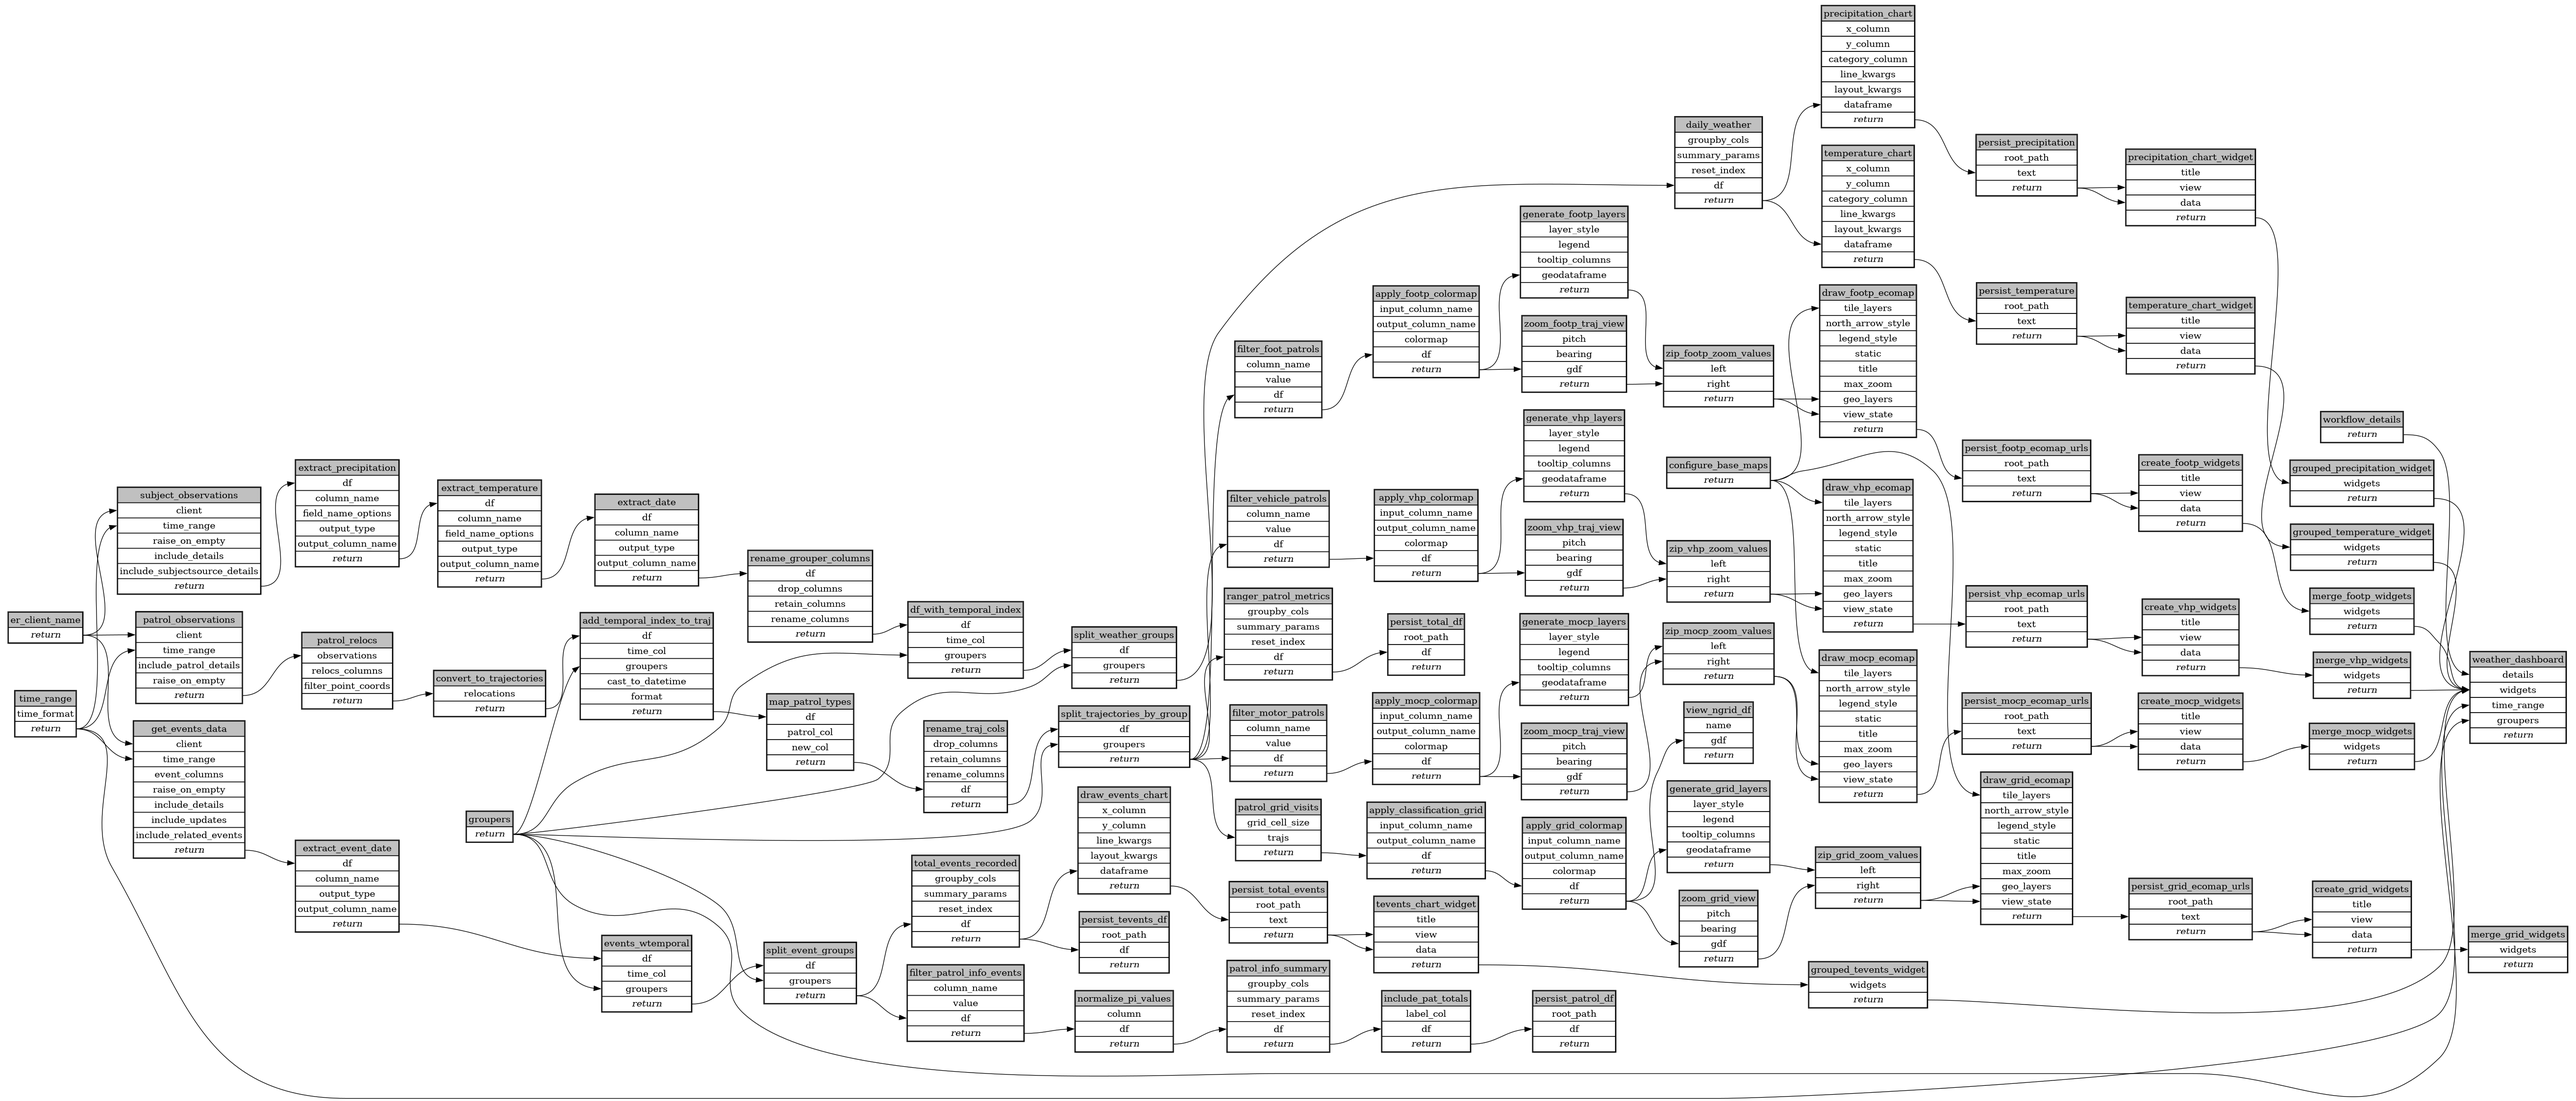
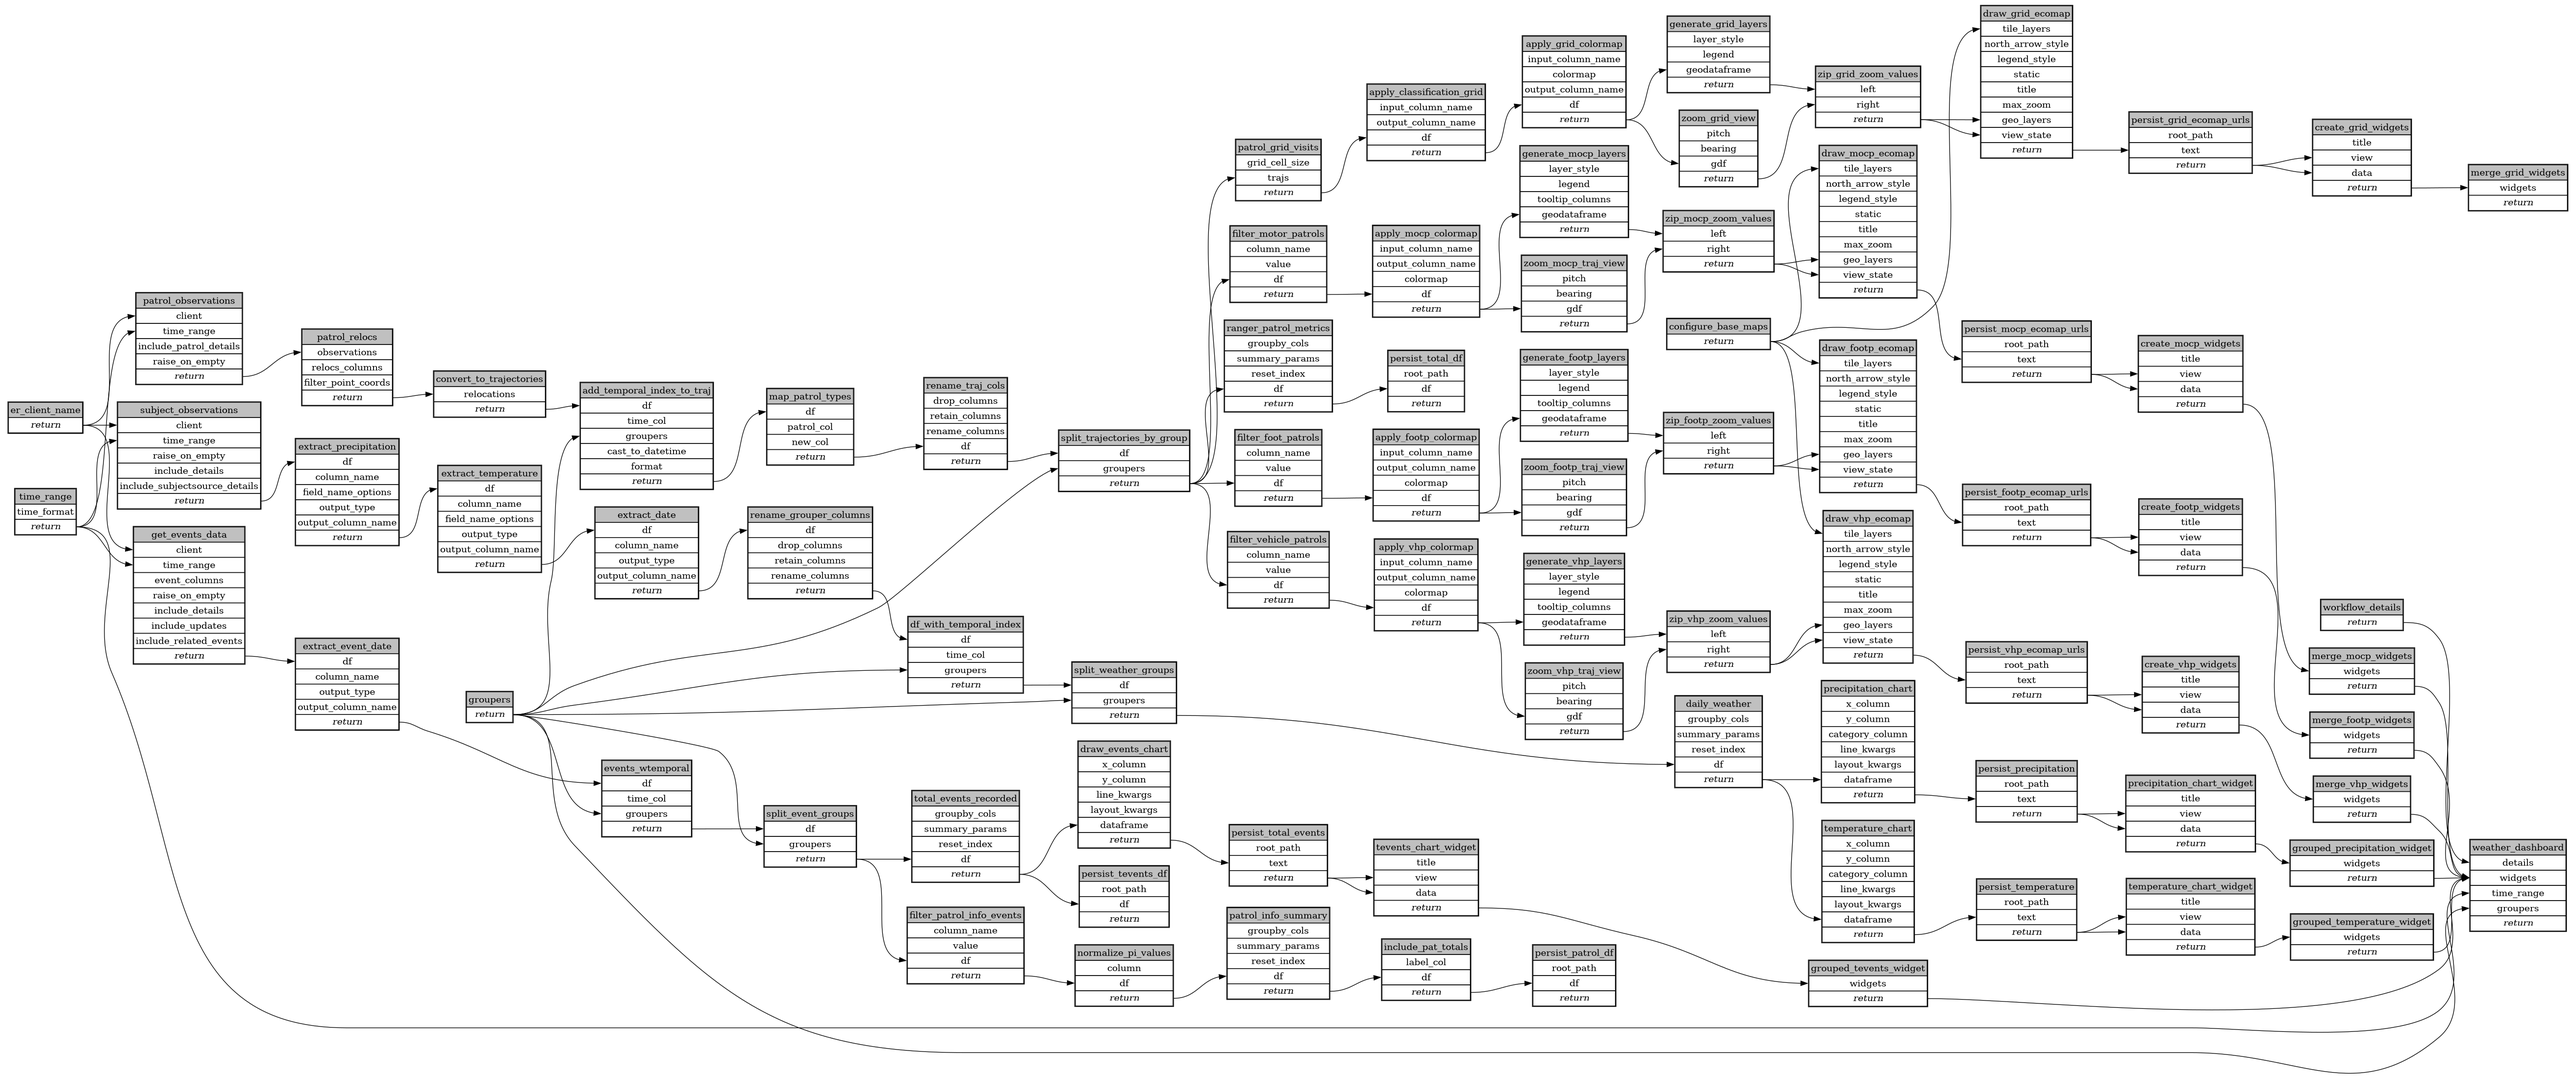
modify spec yaml

diff --git a/workflows/customized_report/ecoscope-workflows-customized-report-workflow/ecoscope_workflows_customized_report_workflow/dags/run_async.py b/workflows/customized_report/ecoscope-workflows-customized-report-workflow/ecoscope_workflows_customized_report_workflow/dags/run_async.py
@@ -53,7 +53,6 @@ from ecoscope_workflows_ext_mnc.tasks import (
     create_patrol_coverage_grid,
     create_view_state_from_gdf,
     filter_by_value,
-    view_df,
     zip_grouped_by_key,
 )
 
@@ -139,7 +138,6 @@ def main(params: Params):
         "patrol_grid_visits": ["split_trajectories_by_group"],
         "apply_classification_grid": ["patrol_grid_visits"],
         "apply_grid_colormap": ["apply_classification_grid"],
-        "view_ngrid_df": ["apply_grid_colormap"],
         "generate_grid_layers": ["apply_grid_colormap"],
         "zoom_grid_view": ["apply_grid_colormap"],
         "zip_grid_zoom_values": ["generate_grid_layers", "zoom_grid_view"],
@@ -1375,28 +1373,14 @@ def main(params: Params):
             .set_executor("lithops"),
             partial={
                 "input_column_name": "density_bins",
+                "colormap": "RdYlGn",
                 "output_column_name": "density_colors",
-                "colormap": "Wistia",
             }
             | (params_dict.get("apply_grid_colormap") or {}),
             method="mapvalues",
             kwargs={
                 "argnames": ["df"],
                 "argvalues": DependsOn("apply_classification_grid"),
-            },
-        ),
-        "view_ngrid_df": Node(
-            async_task=view_df.validate()
-            .handle_errors(task_instance_id="view_ngrid_df")
-            .set_executor("lithops"),
-            partial={
-                "name": "Patrol colormap grid",
-            }
-            | (params_dict.get("view_ngrid_df") or {}),
-            method="mapvalues",
-            kwargs={
-                "argnames": ["gdf"],
-                "argvalues": DependsOn("apply_grid_colormap"),
             },
         ),
         "generate_grid_layers": Node(
@@ -1416,7 +1400,6 @@ def main(params: Params):
                     "label_column": "density_bins",
                     "color_column": "density_colors",
                 },
-                "tooltip_columns": ["density_bins", "density_colors"],
             }
             | (params_dict.get("generate_grid_layers") or {}),
             method="mapvalues",

diff --git a/workflows/customized_report/ecoscope-workflows-customized-report-workflow/ecoscope_workflows_customized_report_workflow/dags/run_async_mock_io.py b/workflows/customized_report/ecoscope-workflows-customized-report-workflow/ecoscope_workflows_customized_report_workflow/dags/run_async_mock_io.py
@@ -95,7 +95,6 @@ from ecoscope_workflows_ext_mnc.tasks import (
     create_patrol_coverage_grid,
     create_view_state_from_gdf,
     filter_by_value,
-    view_df,
     zip_grouped_by_key,
 )
 
@@ -183,7 +182,6 @@ def main(params: Params):
         "patrol_grid_visits": ["split_trajectories_by_group"],
         "apply_classification_grid": ["patrol_grid_visits"],
         "apply_grid_colormap": ["apply_classification_grid"],
-        "view_ngrid_df": ["apply_grid_colormap"],
         "generate_grid_layers": ["apply_grid_colormap"],
         "zoom_grid_view": ["apply_grid_colormap"],
         "zip_grid_zoom_values": ["generate_grid_layers", "zoom_grid_view"],
@@ -1419,28 +1417,14 @@ def main(params: Params):
             .set_executor("lithops"),
             partial={
                 "input_column_name": "density_bins",
+                "colormap": "RdYlGn",
                 "output_column_name": "density_colors",
-                "colormap": "Wistia",
             }
             | (params_dict.get("apply_grid_colormap") or {}),
             method="mapvalues",
             kwargs={
                 "argnames": ["df"],
                 "argvalues": DependsOn("apply_classification_grid"),
-            },
-        ),
-        "view_ngrid_df": Node(
-            async_task=view_df.validate()
-            .handle_errors(task_instance_id="view_ngrid_df")
-            .set_executor("lithops"),
-            partial={
-                "name": "Patrol colormap grid",
-            }
-            | (params_dict.get("view_ngrid_df") or {}),
-            method="mapvalues",
-            kwargs={
-                "argnames": ["gdf"],
-                "argvalues": DependsOn("apply_grid_colormap"),
             },
         ),
         "generate_grid_layers": Node(
@@ -1460,7 +1444,6 @@ def main(params: Params):
                     "label_column": "density_bins",
                     "color_column": "density_colors",
                 },
-                "tooltip_columns": ["density_bins", "density_colors"],
             }
             | (params_dict.get("generate_grid_layers") or {}),
             method="mapvalues",

diff --git a/workflows/customized_report/ecoscope-workflows-customized-report-workflow/ecoscope_workflows_customized_report_workflow/dags/run_sequential.py b/workflows/customized_report/ecoscope-workflows-customized-report-workflow/ecoscope_workflows_customized_report_workflow/dags/run_sequential.py
@@ -52,7 +52,6 @@ from ecoscope_workflows_ext_mnc.tasks import (
     create_patrol_coverage_grid,
     create_view_state_from_gdf,
     filter_by_value,
-    view_df,
     zip_grouped_by_key,
 )
 
@@ -1086,20 +1085,11 @@ def main(params: Params):
         .handle_errors(task_instance_id="apply_grid_colormap")
         .partial(
             input_column_name="density_bins",
+            colormap="RdYlGn",
             output_column_name="density_colors",
-            colormap="Wistia",
             **(params_dict.get("apply_grid_colormap") or {}),
         )
         .mapvalues(argnames=["df"], argvalues=apply_classification_grid)
-    )
-
-    view_ngrid_df = (
-        view_df.validate()
-        .handle_errors(task_instance_id="view_ngrid_df")
-        .partial(
-            name="Patrol colormap grid", **(params_dict.get("view_ngrid_df") or {})
-        )
-        .mapvalues(argnames=["gdf"], argvalues=apply_grid_colormap)
     )
 
     generate_grid_layers = (
@@ -1115,7 +1105,6 @@ def main(params: Params):
         .partial(
             layer_style={"fill_color_column": "density_colors", "opacity": 0.55},
             legend={"label_column": "density_bins", "color_column": "density_colors"},
-            tooltip_columns=["density_bins", "density_colors"],
             **(params_dict.get("generate_grid_layers") or {}),
         )
         .mapvalues(argnames=["geodataframe"], argvalues=apply_grid_colormap)

diff --git a/workflows/customized_report/ecoscope-workflows-customized-report-workflow/ecoscope_workflows_customized_report_workflow/dags/run_sequential_mock_io.py b/workflows/customized_report/ecoscope-workflows-customized-report-workflow/ecoscope_workflows_customized_report_workflow/dags/run_sequential_mock_io.py
@@ -94,7 +94,6 @@ from ecoscope_workflows_ext_mnc.tasks import (
     create_patrol_coverage_grid,
     create_view_state_from_gdf,
     filter_by_value,
-    view_df,
     zip_grouped_by_key,
 )
 
@@ -1130,20 +1129,11 @@ def main(params: Params):
         .handle_errors(task_instance_id="apply_grid_colormap")
         .partial(
             input_column_name="density_bins",
+            colormap="RdYlGn",
             output_column_name="density_colors",
-            colormap="Wistia",
             **(params_dict.get("apply_grid_colormap") or {}),
         )
         .mapvalues(argnames=["df"], argvalues=apply_classification_grid)
-    )
-
-    view_ngrid_df = (
-        view_df.validate()
-        .handle_errors(task_instance_id="view_ngrid_df")
-        .partial(
-            name="Patrol colormap grid", **(params_dict.get("view_ngrid_df") or {})
-        )
-        .mapvalues(argnames=["gdf"], argvalues=apply_grid_colormap)
     )
 
     generate_grid_layers = (
@@ -1159,7 +1149,6 @@ def main(params: Params):
         .partial(
             layer_style={"fill_color_column": "density_colors", "opacity": 0.55},
             legend={"label_column": "density_bins", "color_column": "density_colors"},
-            tooltip_columns=["density_bins", "density_colors"],
             **(params_dict.get("generate_grid_layers") or {}),
         )
         .mapvalues(argnames=["geodataframe"], argvalues=apply_grid_colormap)

diff --git a/workflows/customized_report/ecoscope-workflows-customized-report-workflow/ecoscope_workflows_customized_report_workflow/dags/jupytext.py b/workflows/customized_report/ecoscope-workflows-customized-report-workflow/ecoscope_workflows_customized_report_workflow/dags/jupytext.py
@@ -62,7 +62,6 @@ from ecoscope_workflows_ext_mnc.tasks import (
     create_patrol_coverage_grid,
     create_view_state_from_gdf,
     filter_by_value,
-    view_df,
     zip_grouped_by_key,
 )
 
@@ -2002,30 +2001,11 @@ apply_grid_colormap = (
     apply_color_map.handle_errors(task_instance_id="apply_grid_colormap")
     .partial(
         input_column_name="density_bins",
+        colormap="RdYlGn",
         output_column_name="density_colors",
-        colormap="Wistia",
         **apply_grid_colormap_params,
     )
     .mapvalues(argnames=["df"], argvalues=apply_classification_grid)
-)
-
-
-# %% [markdown]
-# ## view patrol coverage grid df
-
-# %%
-# parameters
-
-view_ngrid_df_params = dict()
-
-# %%
-# call the task
-
-
-view_ngrid_df = (
-    view_df.handle_errors(task_instance_id="view_ngrid_df")
-    .partial(name="Patrol colormap grid", **view_ngrid_df_params)
-    .mapvalues(argnames=["gdf"], argvalues=apply_grid_colormap)
 )
 
 
@@ -2053,7 +2033,6 @@ generate_grid_layers = (
     .partial(
         layer_style={"fill_color_column": "density_colors", "opacity": 0.55},
         legend={"label_column": "density_bins", "color_column": "density_colors"},
-        tooltip_columns=["density_bins", "density_colors"],
         **generate_grid_layers_params,
     )
     .mapvalues(argnames=["geodataframe"], argvalues=apply_grid_colormap)

diff --git a/src/ecoscope-workflows-ext-mnc/ecoscope_workflows_ext_mnc/tasks/_patrol_coverage.py b/src/ecoscope-workflows-ext-mnc/ecoscope_workflows_ext_mnc/tasks/_patrol_coverage.py
@@ -69,4 +69,5 @@ def create_patrol_coverage_grid(trajs:AnyGeoDataFrame, grid_cell_size=1000)->Any
     
     full_grid_summary = full_grid_summary[full_grid_summary["unique_patrol_count"] > 0]
     full_grid_summary = full_grid_summary.sort_values(by="unique_patrol_count", ascending=False)
+    print(f"full grid summary columns: {full_grid_summary}")
     return full_grid_summary

diff --git a/workflows/customized_report/ecoscope-workflows-customized-report-workflow/README.md b/workflows/customized_report/ecoscope-workflows-customized-report-workflow/README.md
@@ -5,8 +5,8 @@
 
 ```yaml
 # fingerprint:
-artifacts_sha256_basic: e9702d4b86bfc4625cc0b6087f3d8dca82ffcbeb6481f7ffa15bc2f29302ca82
-artifacts_sha256_strict: b18a2d2b381957295cabf8270597ad9f9de61c23a2677d6f1ef0f3e347e237d9
+artifacts_sha256_basic: 34c760f3129fcbab93b3fb149540fe223c4c98576f1099850416dcb805743a34
+artifacts_sha256_strict: 13df66c459e75c12508fc948af621d0bc46d93c69a830bb293708d7c620aa0f1
 installed_requirements:
 - channel: https://repo.prefix.dev/ecoscope-workflows/
   name: ecoscope-workflows-core
@@ -16,9 +16,9 @@ installed_requirements:
   version: {version: ==0.0.5}
 - channel: file:///tmp/ecoscope-workflows-custom/release/artifacts/
   name: ecoscope-workflows-ext-mnc
-  version: {version: ==10000.dev37+g928258960.d20251023}
+  version: {version: ==10000.dev38+g5464a703e.d20251023}
 params_sha256: 3aa22fd43747dcd09c1bc280c29abdeaa8ce3ed6cca01608f13bcc1da8f6af71
-spec_sha256: 962249ce4966d28489ece9776313d011cd57caa6cc17255a6a6f895e583a7517
+spec_sha256: b546e107ae75d94e6d5e49be3cd96d484de543296dd0a869e71a3380e117d0d3
 
 ```
 
